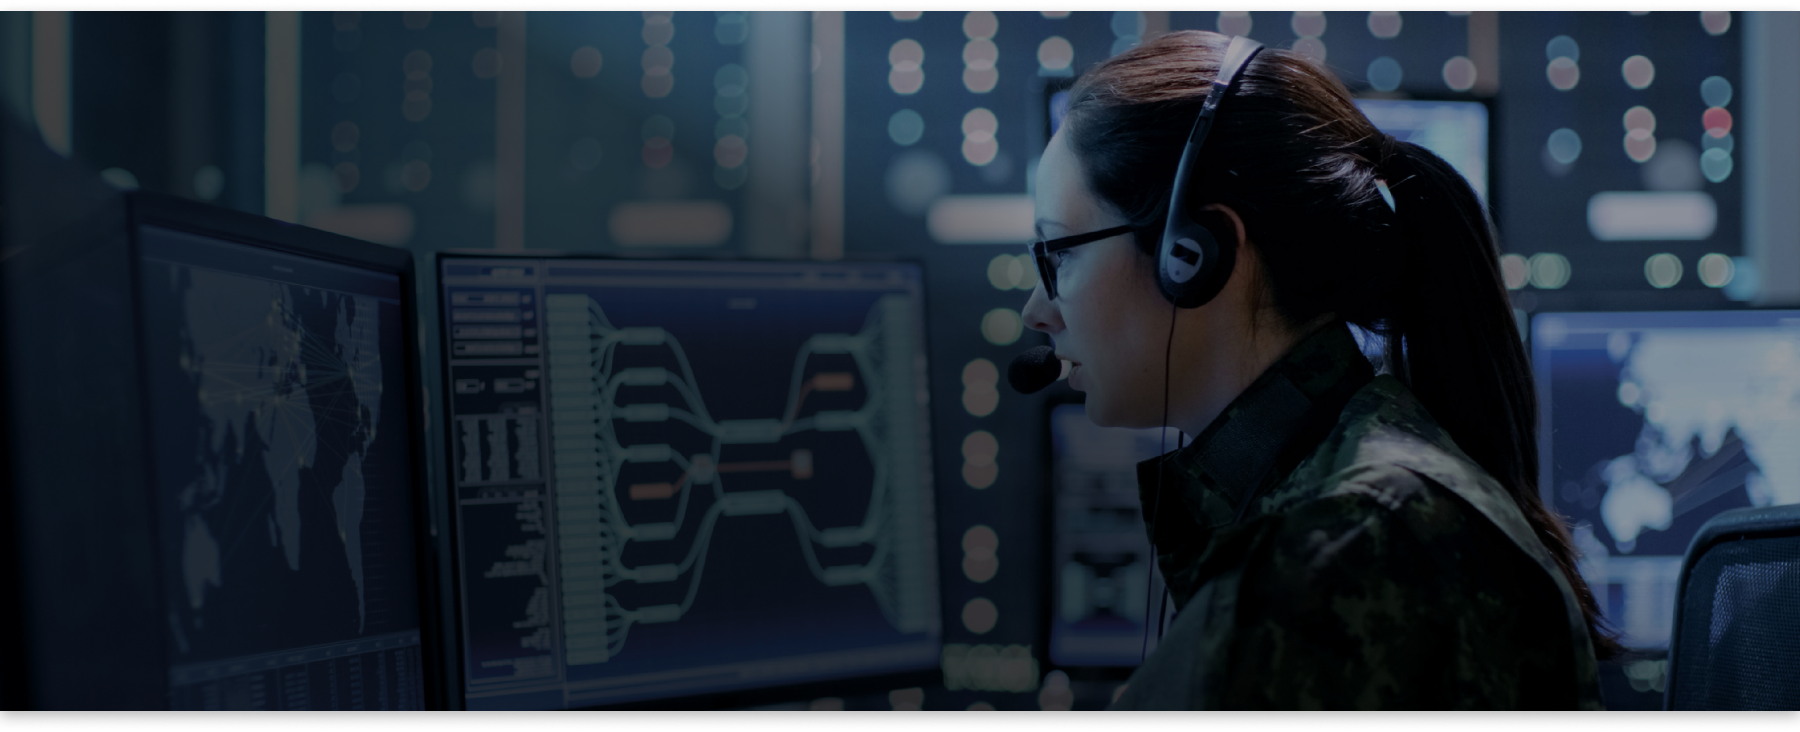
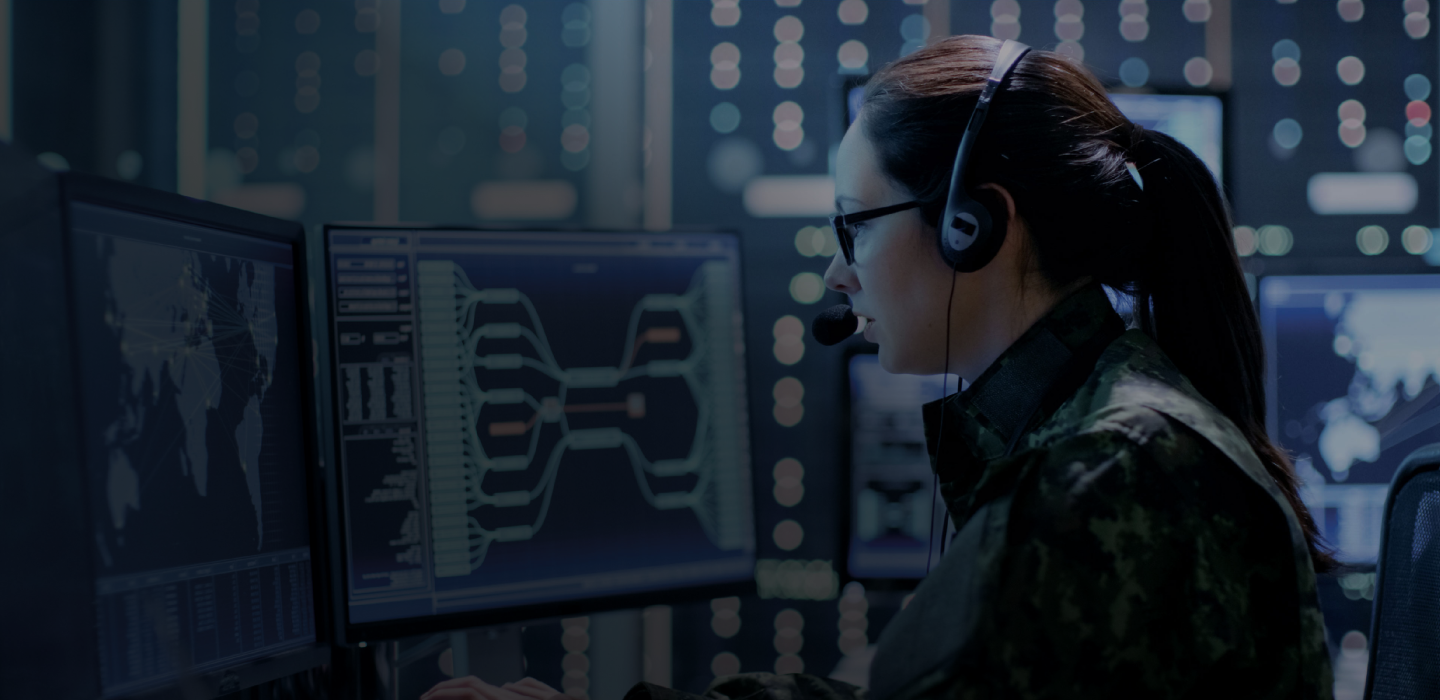
[UA-2]: hero-section implemented

diff --git a/src/styles/layout/hero-section.scss b/src/styles/layout/hero-section.scss
@@ -1,0 +1,77 @@
+.hero-section {
+  background: linear-gradient(90deg, $dark-overlay 0%, $light-overlay 95%),
+    url($images-path + "hero-image.png") no-repeat center/cover;
+  color: $white;
+  padding: 4.5rem 0 3.8rem;
+
+  &__text {
+    padding-left: 2.1rem;
+  }
+
+  &__title {
+    @include line-clamp(4);
+    max-width: 24rem;
+  }
+  &__details {
+    @include line-clamp(8);
+    margin-top: 1.3rem;
+    max-width: 24rem;
+  }
+  &__consult {
+    @include flex(flex-start, center);
+    margin-top: 2.3rem;
+    color: $white;
+  }
+  &__angle-right {
+    @include font(2.1rem);
+    padding-top: 0.3rem;
+    margin-left: 0.5rem;
+  }
+
+  @include breakpoint($tablet-min) {
+    padding: 10.5rem 0 10rem;
+    background-size: 131rem;
+    background-position: center left -14rem;
+    &__text {
+      padding-left: 3rem;
+    }
+    &__title {
+      max-width: 34.8rem;
+    }
+    &__details {
+      margin-top: 1.1rem;
+      max-width: 34.5rem;
+    }
+  }
+  @include breakpoint($desktop-sm-min) {
+    padding: 8.75rem 0 9rem;
+    background-size: cover;
+    background-position: center;
+    &__text {
+      padding-left: 4.1rem;
+    }
+    &__title {
+      max-width: 45.4rem;
+    }
+    &__details {
+      margin-top: 1.25rem;
+      max-width: 47rem;
+    }
+    &__consult {
+      margin-top: 3.5rem;
+    }
+  }
+  @include breakpoint($desktop-lg-min) {
+    padding: 20rem 0 19.5rem;
+    &__text {
+      padding-left: 11.7rem;
+    }
+    &__title {
+      max-width: 60rem;
+    }
+    &__details {
+      margin-top: 2.2rem;
+      max-width: 59.3rem;
+    }
+  }
+}

diff --git a/src/index.html b/src/index.html
@@ -54,7 +54,27 @@
           <div class="navbar__hamburger icon-hamburgur"></div>
         </nav>
       </div>
-      <section class="hero-section"></section>
+      <section class="hero-section">
+        <div class="hero-section__text container">
+          <h1 class="hero-section__title">
+            Enabling Intelligence. Delivering Results.
+          </h1>
+          <p class="hero-section__details para-lg">
+            RigNet delivers the secure communications infrastructure, advanced
+            software, and optimized industry solutions that allow the oil and
+            gas industry to finally realize the business value of digital
+            transformation.
+          </p>
+          <a
+            href="#"
+            class="hero-section__consult font-schedule"
+            title="Schedule Consultation"
+          >
+            SCHEDULE CONSULTATION
+            <i class="hero-section__angle-right icon-angle-right"></i>
+          </a>
+        </div>
+      </section>
     </header>
   </body>
 </html>

diff --git a/src/styles/base/_typography.scss b/src/styles/base/_typography.scss
@@ -38,3 +38,37 @@ html {
 * {
   font-family: $font-roboto, sans-serif;
 }
+
+h1 {
+  @include font(3.2rem, 700, 3.6rem, 0.09rem);
+  @include breakpoint($tablet-min) {
+    @include font(4.8rem, 700, 5.2rem, 0.14rem);
+  }
+  @include breakpoint($desktop-sm-min) {
+    @include font(5.2rem, 700, 5.5rem, 0.14rem);
+  }
+  @include breakpoint($desktop-lg-min) {
+    @include font(5.6rem, 700, 6rem, 0.15rem);
+  }
+}
+p {
+  &.para-lg {
+    @include font(1.6rem, $height: 2.1rem);
+    @include breakpoint($tablet-min) {
+      @include font(1.7rem, $height: 2.5rem);
+    }
+    @include breakpoint($desktop-sm-min) {
+      @include font(2rem, $height: 2.6rem);
+    }
+  }
+}
+.font-schedule {
+  @include font(1.2rem, $height: 1.7rem);
+  font-family: $font-halvetica;
+  @include breakpoint($tablet-min) {
+    @include font(1.3rem, $height: 1.9rem);
+  }
+  @include breakpoint($desktop-sm-min) {
+    @include font(1.3rem, $height: 2rem);
+  }
+}

diff --git a/src/styles/abstracts/_variables.scss b/src/styles/abstracts/_variables.scss
@@ -12,9 +12,17 @@ $grey: #65666b;
 $white: #fff;
 $black: #000;
 
+// backgrounds and shadows
 $shadow-color: rgba(0, 0, 0, 0.129);
 $border-color: #bcbcbc;
 $navmenu-bg-color: #f8f8f8;
+
+// linear grandient colors
+$dark-overlay: rgba(0, 0, 0, 0.8);
+$light-overlay: rgba(255, 255, 255, 0);
+
+//absolute images folder path
+$images-path: "/src/assets/images/";
 
 //font families
 $font-roboto: "Roboto";

diff --git a/src/styles/main.scss b/src/styles/main.scss
@@ -7,4 +7,4 @@
 @import "base/globals", "base/icons", "base/typography", "base/utilities";
 
 // 3. Layout-related sections
-@import "layout/header.scss";
+@import "layout/header.scss", "layout/hero-section.scss";

diff --git a/src/styles/base/_globals.scss b/src/styles/base/_globals.scss
@@ -2,6 +2,7 @@
   margin: 0;
   padding: 0;
   box-sizing: border-box;
+  word-wrap: break-word;
 }
 img {
   max-width: 100%;

diff --git a/src/styles/base/_utilities.scss b/src/styles/base/_utilities.scss
@@ -5,5 +5,4 @@
   overflow: hidden;
   white-space: nowrap;
   text-overflow: ellipsis;
-  word-wrap: break-word;
 }
